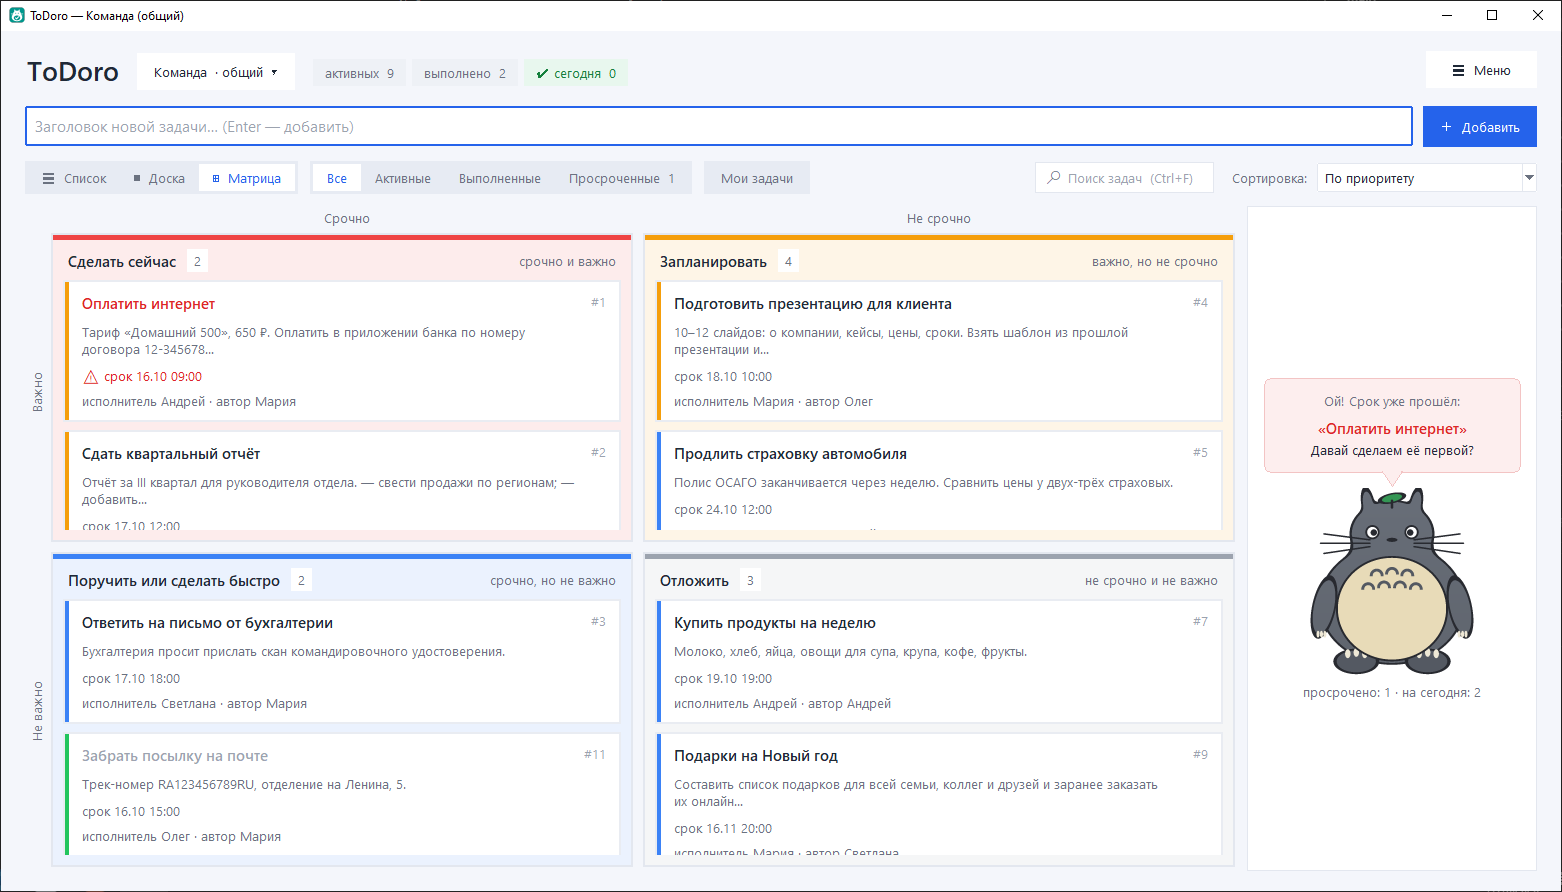
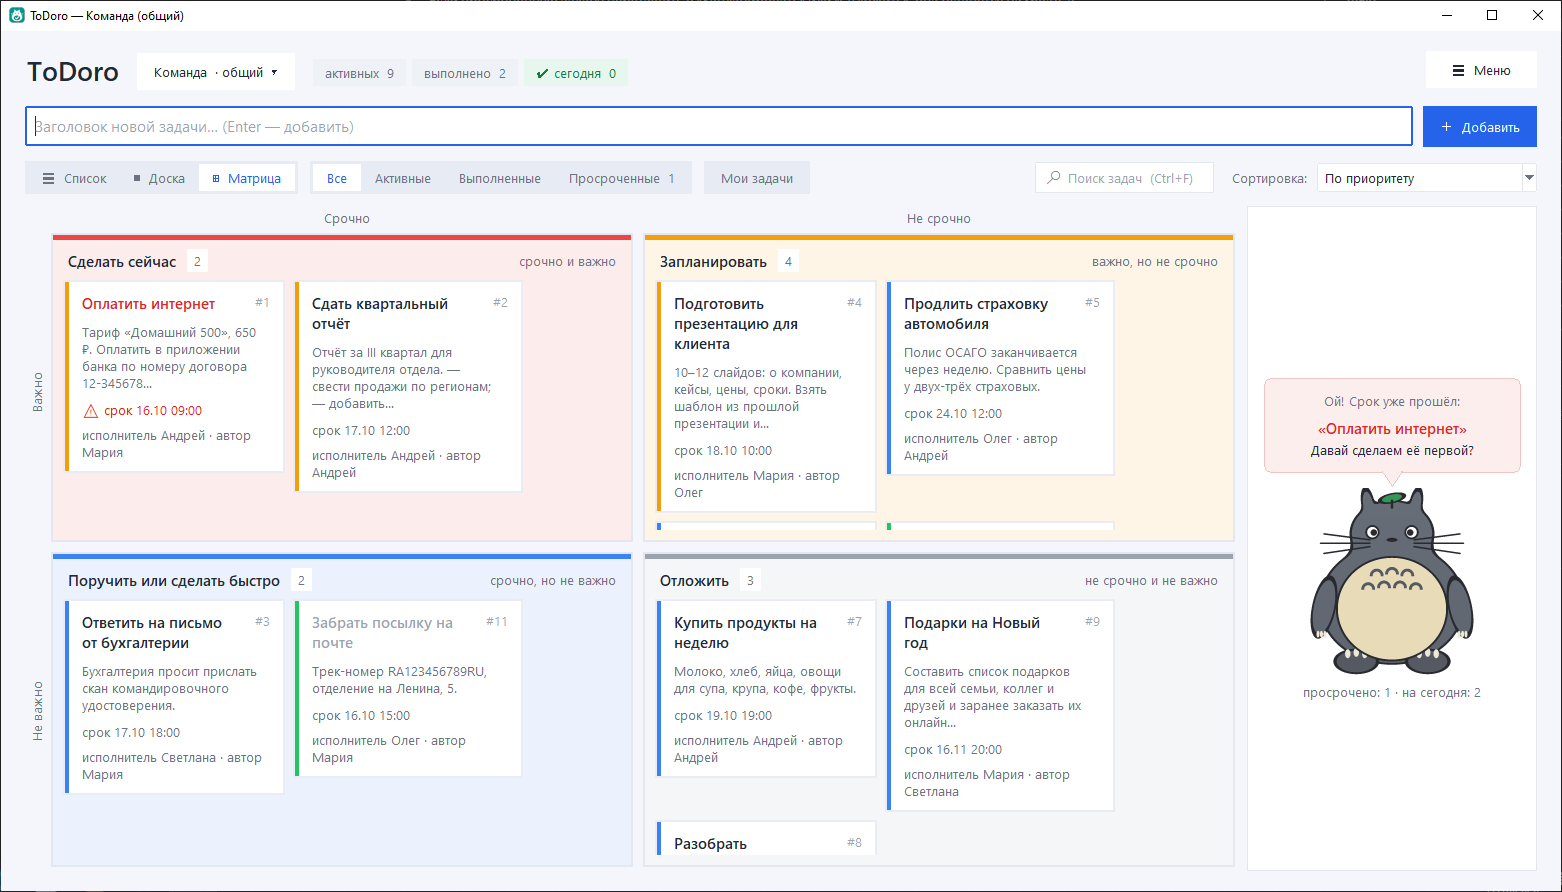
Матрица: карточки размером как на доске, сеткой в несколько колонок и рядов (число колонок — по ширине окна)

diff --git a/todoro.py b/todoro.py
@@ -3341,10 +3341,10 @@ class EisenhowerMatrix(KanbanBoard):
         self.drag = None
         self.lanes = []   # [(уровень приоритета, рамка четверти, цвет фона)]
         self.cards = {}
-        self.card_width = LANE_WIDTH
         self.show_priority = False  # приоритет и так виден по четверти
+        self.card_width = LANE_WIDTH  # переносы текста на карточке — как на доске
         self.shown = None           # что нарисовано — чтобы перерисовать при смене ширины
-        self.drawn_width = None
+        self.drawn_columns = None
         self.redraw_job = None
 
         self.columnconfigure(1, weight=1, uniform="q")
@@ -3371,17 +3371,23 @@ class EisenhowerMatrix(KanbanBoard):
         self.bind("<Button-1>", lambda e: self.app.clear_selection())
         self.bind("<Configure>", self.resized)
 
+    CARD = LANE_WIDTH - 20  # ширина карточки — как на доске
+    GAP = 8                 # промежуток между карточками
+
     def resized(self, event):
-        # текст карточек переносится по ширине четверти — при заметной смене ширины рисуем
-        # заново (не сразу: пока тянут край окна, событий много)
-        if self.shown and abs(self.quadrant_width() - self.drawn_width) > 20:
+        # карточки стоят сеткой: если в четверть теперь помещается другое число колонок,
+        # рисуем заново (не сразу: пока тянут край окна, событий много)
+        if self.shown and self.columns() != self.drawn_columns:
             if self.redraw_job:
                 self.after_cancel(self.redraw_job)
             self.redraw_job = self.after(150, lambda: self.render(*self.shown))
 
-    def quadrant_width(self):
+    def columns(self):
+        """Сколько карточек помещается в ряд в одной четверти."""
         width = self.winfo_width()
-        return (width - 36) // 2 if width > 100 else 420
+        quadrant = (width - 36) // 2 if width > 100 else 500
+        inside = quadrant - 22  # рамка, отступы и место под прокрутку
+        return max(1, (inside + self.GAP) // (self.CARD + self.GAP))
 
     def level(self, task_id, urgent, important):
         """Четверть задачи: просроченная считается срочной."""
@@ -3391,8 +3397,7 @@ class EisenhowerMatrix(KanbanBoard):
     def render(self, statuses, rows, overdue_ids):
         self.redraw_job = None
         self.shown = (statuses, rows, overdue_ids)
-        self.drawn_width = self.quadrant_width()
-        self.card_width = max(self.drawn_width - 26, 200)
+        self.drawn_columns = self.columns()
         colors = {sid: color for sid, _, color, _ in statuses}
         by_level = {}
         for row in rows:
@@ -3420,18 +3425,24 @@ class EisenhowerMatrix(KanbanBoard):
             side="left", padx=(8, 0))
         tk.Label(head, text=hint, bg=bg, fg=MUTED, font=FONT_SMALL).pack(side="right")
 
-        # карточки — в прокручиваемой области; цветная полоска карточки — цвет её статуса
+        # карточки — сеткой в прокручиваемой области; цветная полоска карточки — цвет её статуса
         area = tk.Canvas(box, bg=bg, highlightthickness=0)
         area.pack(fill="both", expand=True, padx=(10, 6), pady=(0, 10))
         cards = tk.Frame(area, bg=bg)
-        window = area.create_window(0, 0, window=cards, anchor="nw", width=self.card_width)
+        area.create_window(0, 0, window=cards, anchor="nw")
         cards.bind("<Configure>", lambda e: area.configure(scrollregion=area.bbox("all")))
-        area.bind("<Configure>", lambda e: area.itemconfigure(window, width=max(e.width - 4, 100)))
-        for row in rows:
-            self.make_card(cards, row, colors.get(row[9], color), row[0] in overdue_ids)
+        columns = self.drawn_columns
+        for column in range(columns):
+            cards.columnconfigure(column, minsize=self.CARD, uniform="card")
+        for index, row in enumerate(rows):
+            cell = tk.Frame(cards, bg=bg)
+            cell.grid(row=index // columns, column=index % columns, sticky="nsew",
+                      padx=(0, self.GAP if index % columns < columns - 1 else 0))
+            cell.bind("<Button-1>", lambda e: self.app.clear_selection())
+            self.make_card(cell, row, colors.get(row[9], color), row[0] in overdue_ids)
         if not rows:
             tk.Label(cards, text="Перетащите сюда задачу", bg=bg, fg=DONE,
-                     font=FONT_SMALL).pack(pady=24)
+                     font=FONT_SMALL).grid(row=0, column=0, columnspan=columns, pady=24)
         for widget in (box, head, area, cards):
             widget.bind("<Button-1>", lambda e: self.app.clear_selection())
         bind_tree(box, "<MouseWheel>",
